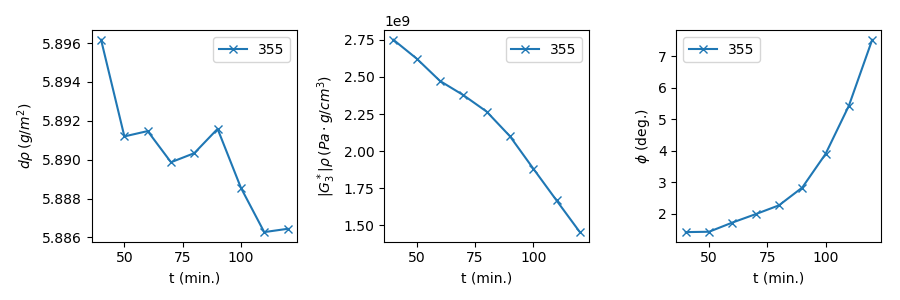
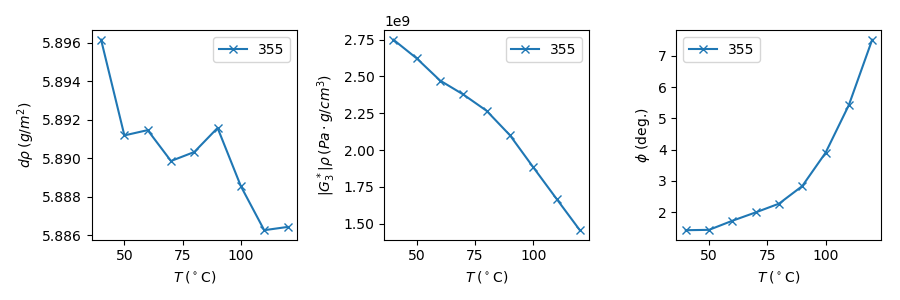
Fix Temp. axis label

diff --git a/QCM_functions.py b/QCM_functions.py
@@ -169,11 +169,16 @@ def solvefunction(soln_input):
 def QCManalyze(sample):
     # read in the optional inputs, assigning default values if not assigned
     nhplot = sample.get('nhplot', [1, 3, 5])
+    nhcalc = sample.get('nhcalc', ['353'])
     firstline = sample.get('firstline', 0)
     baretrange = sample.get('baretrange', [0, 0])
     filmtrange = sample.get('filmtrange', [0, 0])
     sample['xlabel'] = sample.get('xlabel',  't (min.)')
     Temp = np.array(sample.get('Temp', [22]))
+        # set the appropriate value for xdata
+    if Temp.shape[0] != 1:
+        sample['xlabel'] = r'$T \: (^\circ$C)'
+
     sample['nhcalc'] = sample.get('nhcalc', [])
 
     # now read in the variables that must exist in the sample dictionary
@@ -324,7 +329,6 @@ def QCManalyze(sample):
     if Temp.shape[0] == 1:
         xdata = film_t[idx['f']]
     else:
-        sample['xlabel'] = r'$T \: ^\circ$C'
         xdata = Temp
 
     # now do all of the calculations and plot the data
